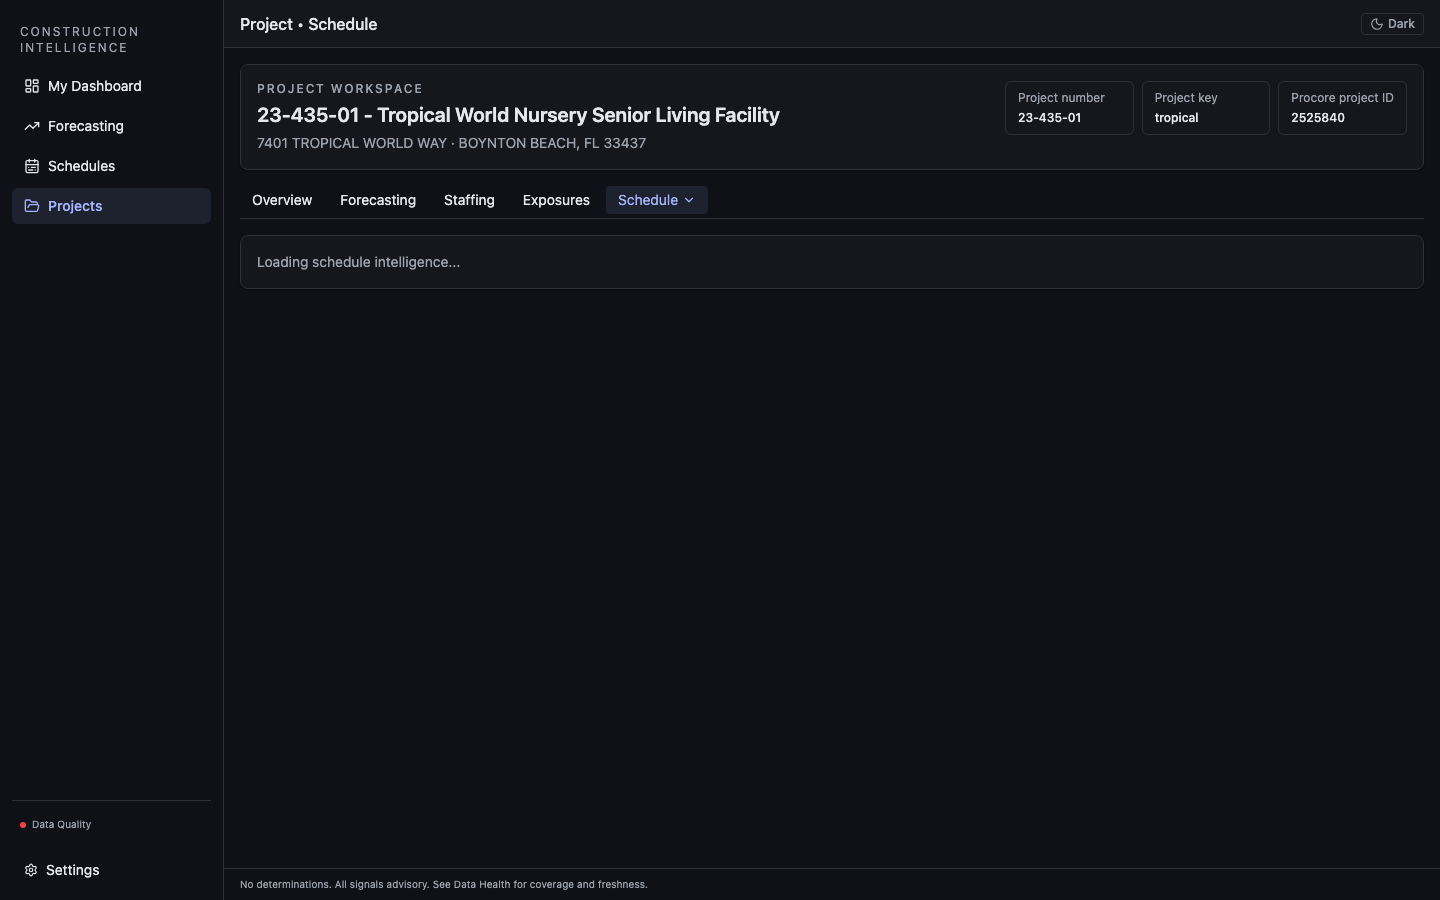
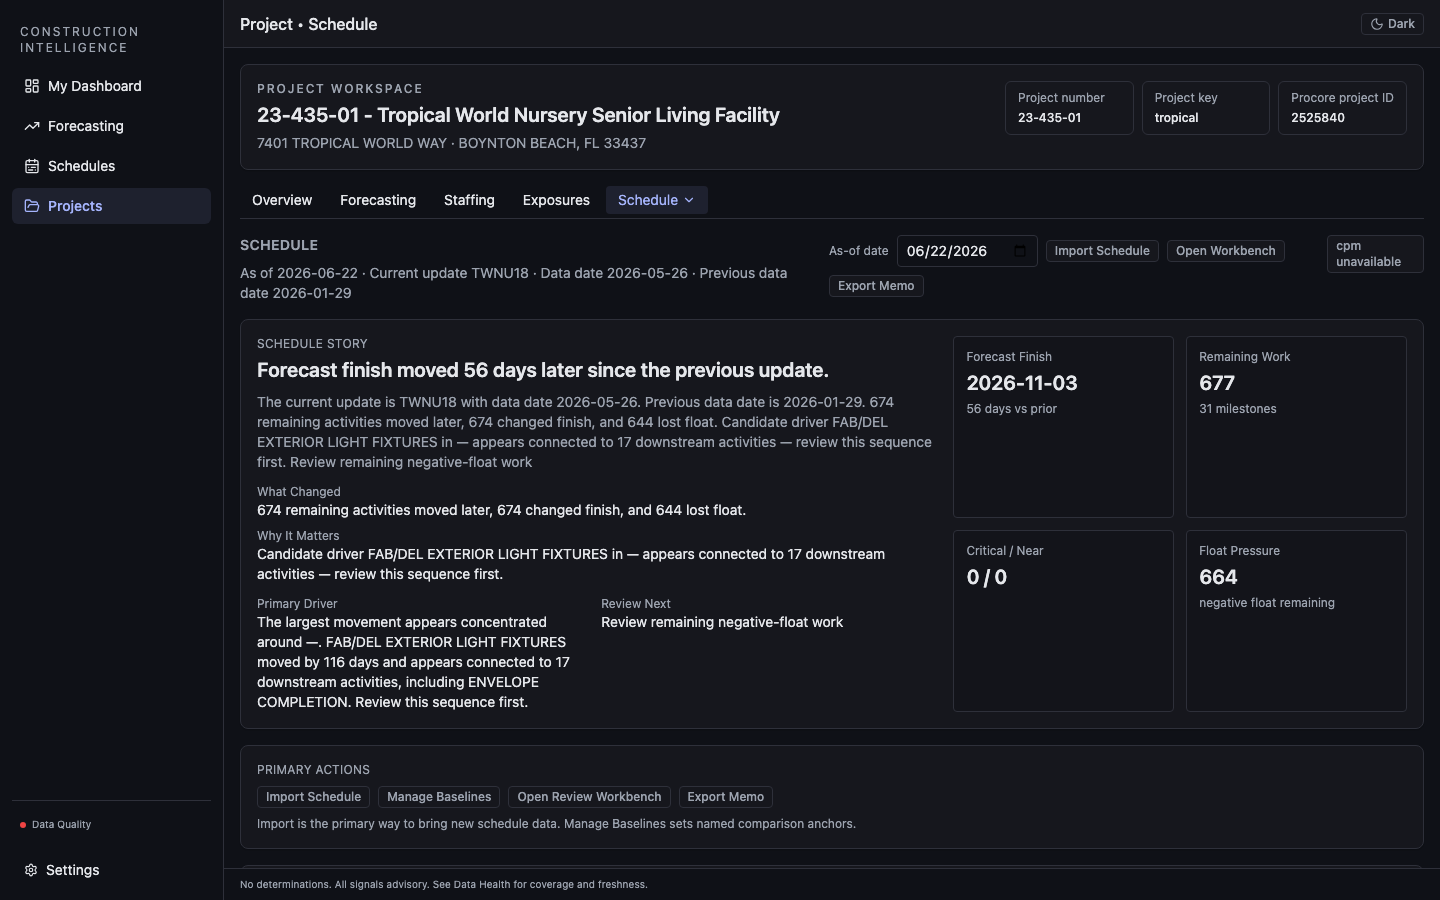
fix(evidence): recapture schedule UX screenshots after loaded-state waits

diff --git a/scripts/dev_schedule_ux_corrective_screenshots.py b/scripts/dev_schedule_ux_corrective_screenshots.py
@@ -1,44 +1,152 @@
 #!/usr/bin/env python3
-"""Capture runtime screenshots for schedule UX corrective evidence (localhost:5173 + copied DB)."""
+"""Capture runtime screenshots for schedule UX corrective evidence (localhost:5173 + copied DB).
+
+Waits for API responses and loaded-state markers before each capture (see scheduleLoadedState recipes).
+"""
 
 from __future__ import annotations
 
 import argparse
+import json
 import sys
 import time
 from pathlib import Path
+from typing import Callable
 
 try:
-    from playwright.sync_api import sync_playwright
+    from playwright.sync_api import Page, sync_playwright
 except ImportError:
     print("playwright not installed; run: pip install playwright && playwright install chromium", file=sys.stderr)
     raise
 
 ROLE_INIT = "localStorage.setItem('hb-ui-role', 'operator');"
 
+LOADING_MARKERS = [
+    "Loading project workspace...",
+    "Loading schedule intelligence...",
+    "Loading baseline management",
+    "Loading schedule workbench...",
+    "Loading driver detail...",
+    "Loading schedule review dashboard",
+]
 
-def capture_loading_state(page, base_url: str, out: Path) -> None:
-    """Capture mid-fetch refreshing banner during as_of navigation."""
-    page.goto(f"{base_url}/projects/tropical/schedule?as_of=2026-06-22", wait_until="domcontentloaded", timeout=120000)
-    page.wait_for_timeout(2000)
+
+def wait_loading_markers_hidden(page: Page, timeout_ms: int = 180000) -> None:
+    deadline = time.time() + timeout_ms / 1000
+    for marker in LOADING_MARKERS:
+        remaining = max(1000, int((deadline - time.time()) * 1000))
+        locator = page.get_by_text(marker, exact=False)
+        try:
+            if locator.count() > 0:
+                locator.first.wait_for(state="hidden", timeout=remaining)
+        except Exception:
+            # Marker never appeared or already gone — acceptable.
+            pass
+
+
+def wait_for_response(page: Page, url_part: str, action: Callable[[], None], timeout_ms: int = 180000):
+  with page.expect_response(
+      lambda r: url_part in r.url and r.request.method == "GET" and r.ok,
+      timeout=timeout_ms,
+  ):
+      action()
+
+
+def wait_workspace_ready(page: Page, base_url: str, path: str) -> None:
+    """Projects list + workspace shell nav must be ready."""
+
+    def navigate() -> None:
+        page.goto(f"{base_url}{path}", wait_until="commit", timeout=180000)
+
+    wait_for_response(page, "/api/projects", navigate)
+    wait_loading_markers_hidden(page)
+    page.get_by_role("button", name="Schedule").wait_for(state="visible", timeout=60000)
+
+
+def wait_schedule_overview_loaded(page: Page, base_url: str, as_of: str) -> None:
+    path = f"/projects/tropical/schedule?as_of={as_of}"
+    api_part = f"/api/projects/tropical/schedule?as_of={as_of}"
+
+    def navigate() -> None:
+        page.goto(f"{base_url}{path}", wait_until="commit", timeout=180000)
+
+    wait_for_response(page, api_part, navigate)
+    wait_loading_markers_hidden(page)
+    page.locator('[data-testid="manage-baselines-primary-action"]').wait_for(state="visible", timeout=60000)
+    page.locator('[data-testid="baseline-management-section"]').wait_for(state="visible", timeout=60000)
+    page.get_by_text("Primary Actions", exact=False).first.wait_for(state="visible", timeout=30000)
+    # Confirm as-of context rendered in header line.
+    page.get_by_text(as_of, exact=False).first.wait_for(state="visible", timeout=30000)
+
+
+def wait_baselines_page_loaded(page: Page, base_url: str, as_of: str) -> None:
+    path = f"/projects/tropical/schedule/baselines?as_of={as_of}"
+    api_part = "/api/projects/tropical/schedule/baselines"
+
+    def navigate() -> None:
+        page.goto(f"{base_url}{path}", wait_until="commit", timeout=180000)
+
+    wait_for_response(page, api_part, navigate)
+    wait_loading_markers_hidden(page)
+    page.locator('[data-testid="baseline-management-page"]').wait_for(state="visible", timeout=60000)
+    page.get_by_role("heading", name="Manage Baselines").wait_for(state="visible", timeout=30000)
+
+
+def wait_workbench_loaded(page: Page, base_url: str, as_of: str) -> None:
+    path = f"/projects/tropical/schedule/workbench?as_of={as_of}"
+    api_part = "/api/projects/tropical/schedule/review-items"
+
+    def navigate() -> None:
+        page.goto(f"{base_url}{path}", wait_until="commit", timeout=180000)
+
+    wait_for_response(page, api_part, navigate)
+    wait_loading_markers_hidden(page)
+    page.get_by_role("heading", name="Schedule Workbench").wait_for(state="visible", timeout=60000)
+
+
+def wait_import_loaded(page: Page, base_url: str) -> None:
+    path = "/projects/tropical/schedule/import"
+    wait_workspace_ready(page, base_url, path)
+    page.get_by_role("heading", name="Upload schedule update").wait_for(state="visible", timeout=30000)
+    page.locator('input[type="file"]').first.wait_for(state="attached", timeout=30000)
+
+
+def wait_driver_index_loaded(page: Page, base_url: str, path: str) -> None:
+    wait_workspace_ready(page, base_url, path)
+    page.locator('h3.section-title:has-text("Activity Drivers")').wait_for(state="visible", timeout=30000)
+
+
+def capture_loading_state(page: Page, base_url: str, out: Path) -> None:
+    """Mid-fetch refreshing banner when as_of changes in-page (not full navigation)."""
+    wait_schedule_overview_loaded(page, base_url, "2026-06-22")
 
     def delay_schedule(route):
-        time.sleep(2.5)
+        time.sleep(4.0)
         route.continue_()
 
     page.route("**/api/projects/tropical/schedule?as_of=2026-06-29*", delay_schedule)
-    page.goto(f"{base_url}/projects/tropical/schedule?as_of=2026-06-29", wait_until="commit", timeout=120000)
-    try:
-        page.locator('[data-testid="schedule-refreshing-banner"]').wait_for(state="visible", timeout=8000)
-    except Exception:
-        page.wait_for_timeout(1500)
+    date_input = page.locator('input[type="date"]').first
+    date_input.wait_for(state="visible", timeout=30000)
+    date_input.fill("2026-06-29")
+
+    page.locator('[data-testid="schedule-refreshing-banner"]').wait_for(state="visible", timeout=20000)
+    page.locator('[data-testid="manage-baselines-primary-action"]').wait_for(state="visible", timeout=5000)
+    page.get_by_text("Refreshing schedule data", exact=False).first.wait_for(state="visible", timeout=5000)
     page.screenshot(path=str(out / "04-asof-refresh-loading-state.png"), full_page=True)
     print("captured 04-asof-refresh-loading-state.png")
+
     page.unroute("**/api/projects/tropical/schedule?as_of=2026-06-29*", delay_schedule)
-    page.goto(f"{base_url}/projects/tropical/schedule?as_of=2026-06-29", wait_until="domcontentloaded", timeout=120000)
-    page.wait_for_timeout(2500)
+    wait_schedule_overview_loaded(page, base_url, "2026-06-29")
+    page.locator('[data-testid="schedule-refreshing-banner"]').wait_for(state="hidden", timeout=120000)
+    page.get_by_text("TWNU19", exact=False).first.wait_for(state="visible", timeout=30000)
     page.screenshot(path=str(out / "05-post-refresh-trends-state-asof-2026-06-29.png"), full_page=True)
     print("captured 05-post-refresh-trends-state-asof-2026-06-29.png")
+
+
+def write_proof(out: Path, entries: list[dict]) -> None:
+    proof_path = out.parent / "screenshot-loaded-state-proof.json"
+    proof_path.write_text(json.dumps(entries, indent=2) + "\n", encoding="utf-8")
+    print("wrote", proof_path)
 
 
 def main() -> int:
@@ -48,33 +156,64 @@ def main() -> int:
     args = parser.parse_args()
     out = Path(args.out_dir).resolve()
     out.mkdir(parents=True, exist_ok=True)
-
-    shots: list[tuple[str, str, str | None]] = [
-        ("01-overview-top-asof-2026-06-22.png", "/projects/tropical/schedule?as_of=2026-06-22", None),
-        ("02-schedule-dropdown-open-manage-baselines.png", "/projects/tropical/schedule?as_of=2026-06-22", "dropdown"),
-        ("03-baseline-management-visible.png", "/projects/tropical/schedule/baselines?as_of=2026-06-22", None),
-        ("06-import-schedule-route.png", "/projects/tropical/schedule/import", None),
-        ("07-review-workbench-route.png", "/projects/tropical/schedule/workbench?as_of=2026-06-29", None),
-        ("08-driver-detail-empty-state.png", "/projects/tropical/schedule/driver-detail", None),
-        ("09-activity-drivers-empty-state.png", "/projects/tropical/schedule/drivers", None),
-    ]
+    proof: list[dict] = []
 
     with sync_playwright() as p:
         browser = p.chromium.launch()
         page = browser.new_page(viewport={"width": 1440, "height": 900})
         page.add_init_script(ROLE_INIT)
 
-        for name, path, mode in shots:
-            page.goto(f"{args.base_url}{path}", wait_until="domcontentloaded", timeout=120000)
-            page.wait_for_timeout(2000)
-            if mode == "dropdown":
-                page.get_by_role("button", name="Schedule").click(timeout=60000)
-                page.wait_for_timeout(500)
-            page.screenshot(path=str(out / name), full_page=True)
-            print("captured", name)
+        # 01 overview
+        wait_schedule_overview_loaded(page, args.base_url, "2026-06-22")
+        page.screenshot(path=str(out / "01-overview-top-asof-2026-06-22.png"), full_page=True)
+        print("captured 01-overview-top-asof-2026-06-22.png")
+        proof.append({"file": "01-overview-top-asof-2026-06-22.png", "loaded": True, "markers": "schedule overview + Primary Actions"})
 
+        # 02 dropdown (overview already loaded)
+        page.get_by_role("button", name="Schedule").click(timeout=30000)
+        page.get_by_role("link", name="Manage Baselines").wait_for(state="visible", timeout=10000)
+        page.screenshot(path=str(out / "02-schedule-dropdown-open-manage-baselines.png"), full_page=True)
+        print("captured 02-schedule-dropdown-open-manage-baselines.png")
+        proof.append({"file": "02-schedule-dropdown-open-manage-baselines.png", "loaded": True, "markers": "dropdown Manage Baselines link"})
+
+        # 03 baselines page
+        wait_baselines_page_loaded(page, args.base_url, "2026-06-22")
+        page.screenshot(path=str(out / "03-baseline-management-visible.png"), full_page=True)
+        print("captured 03-baseline-management-visible.png")
+        proof.append({"file": "03-baseline-management-visible.png", "loaded": True, "markers": "baseline-management-page"})
+
+        # 06 import
+        wait_import_loaded(page, args.base_url)
+        page.screenshot(path=str(out / "06-import-schedule-route.png"), full_page=True)
+        print("captured 06-import-schedule-route.png")
+        proof.append({"file": "06-import-schedule-route.png", "loaded": True, "markers": "Upload schedule update + Choose File"})
+
+        # 07 workbench
+        wait_workbench_loaded(page, args.base_url, "2026-06-29")
+        page.screenshot(path=str(out / "07-review-workbench-route.png"), full_page=True)
+        print("captured 07-review-workbench-route.png")
+        proof.append({"file": "07-review-workbench-route.png", "loaded": True, "markers": "Schedule Workbench heading"})
+
+        # 08 driver detail empty
+        wait_driver_index_loaded(page, args.base_url, "/projects/tropical/schedule/driver-detail")
+        page.screenshot(path=str(out / "08-driver-detail-empty-state.png"), full_page=True)
+        print("captured 08-driver-detail-empty-state.png")
+        proof.append({"file": "08-driver-detail-empty-state.png", "loaded": True, "markers": "Activity Drivers index"})
+
+        # 09 activity drivers
+        wait_driver_index_loaded(page, args.base_url, "/projects/tropical/schedule/drivers")
+        page.screenshot(path=str(out / "09-activity-drivers-empty-state.png"), full_page=True)
+        print("captured 09-activity-drivers-empty-state.png")
+        proof.append({"file": "09-activity-drivers-empty-state.png", "loaded": True, "markers": "Activity Drivers index"})
+
+        # 04 + 05 loading sequence
         capture_loading_state(page, args.base_url, out)
+        proof.append({"file": "04-asof-refresh-loading-state.png", "loaded": True, "markers": "schedule-refreshing-banner visible"})
+        proof.append({"file": "05-post-refresh-trends-state-asof-2026-06-29.png", "loaded": True, "markers": "as_of 2026-06-29 settled, refreshing banner hidden"})
+
         browser.close()
+
+    write_proof(out, proof)
     return 0
 
 

diff --git a/docs/evidence/project-schedule-hub/schedule-ux-remediation-corrective-20260703T074241Z/05-runtime-visual-validation.md b/docs/evidence/project-schedule-hub/schedule-ux-remediation-corrective-20260703T074241Z/05-runtime-visual-validation.md
@@ -2,6 +2,8 @@
 
 **Capture method:** Playwright Chromium against `http://127.0.0.1:5173`  
 **Script:** `scripts/dev_schedule_ux_corrective_screenshots.py` (run from repo root)  
+**Loaded-state gate:** Each capture waits for the relevant GET API response (200), loading markers hidden, and page-specific ready selectors (see `screenshot-loaded-state-proof.json`).  
+**`04` loading shot:** Changes the in-page As-of date input (not full navigation) while delaying the `as_of=2026-06-29` schedule API so `schedule-refreshing-banner` is visible with prior content retained.  
 **Backend:** `scripts/dev_schedule_clean_db_backend.py` on port 8000  
 **DB:** `/tmp/hb-pa-schedule-ux-final/hb-pa-schedule-ux-20260702T160500Z.sqlite`  
 **Role:** `localStorage hb-ui-role=operator` injected before navigation  

diff --git a/docs/evidence/project-schedule-hub/schedule-ux-remediation-corrective-20260703T074241Z/07-operator-reproduction-checklist.md b/docs/evidence/project-schedule-hub/schedule-ux-remediation-corrective-20260703T074241Z/07-operator-reproduction-checklist.md
@@ -76,12 +76,14 @@ Captured under:
 
 `docs/evidence/project-schedule-hub/schedule-ux-remediation-corrective-20260703T074241Z/screenshots/`
 
-Regenerate:
+Regenerate (waits for API + loaded markers before each capture):
 
 ```bash
 python scripts/dev_schedule_ux_corrective_screenshots.py \
   --out-dir docs/evidence/project-schedule-hub/schedule-ux-remediation-corrective-20260703T074241Z/screenshots
 ```
+
+Proof manifest: `screenshot-loaded-state-proof.json` in the evidence package root.
 
 ## API payload evidence
 
